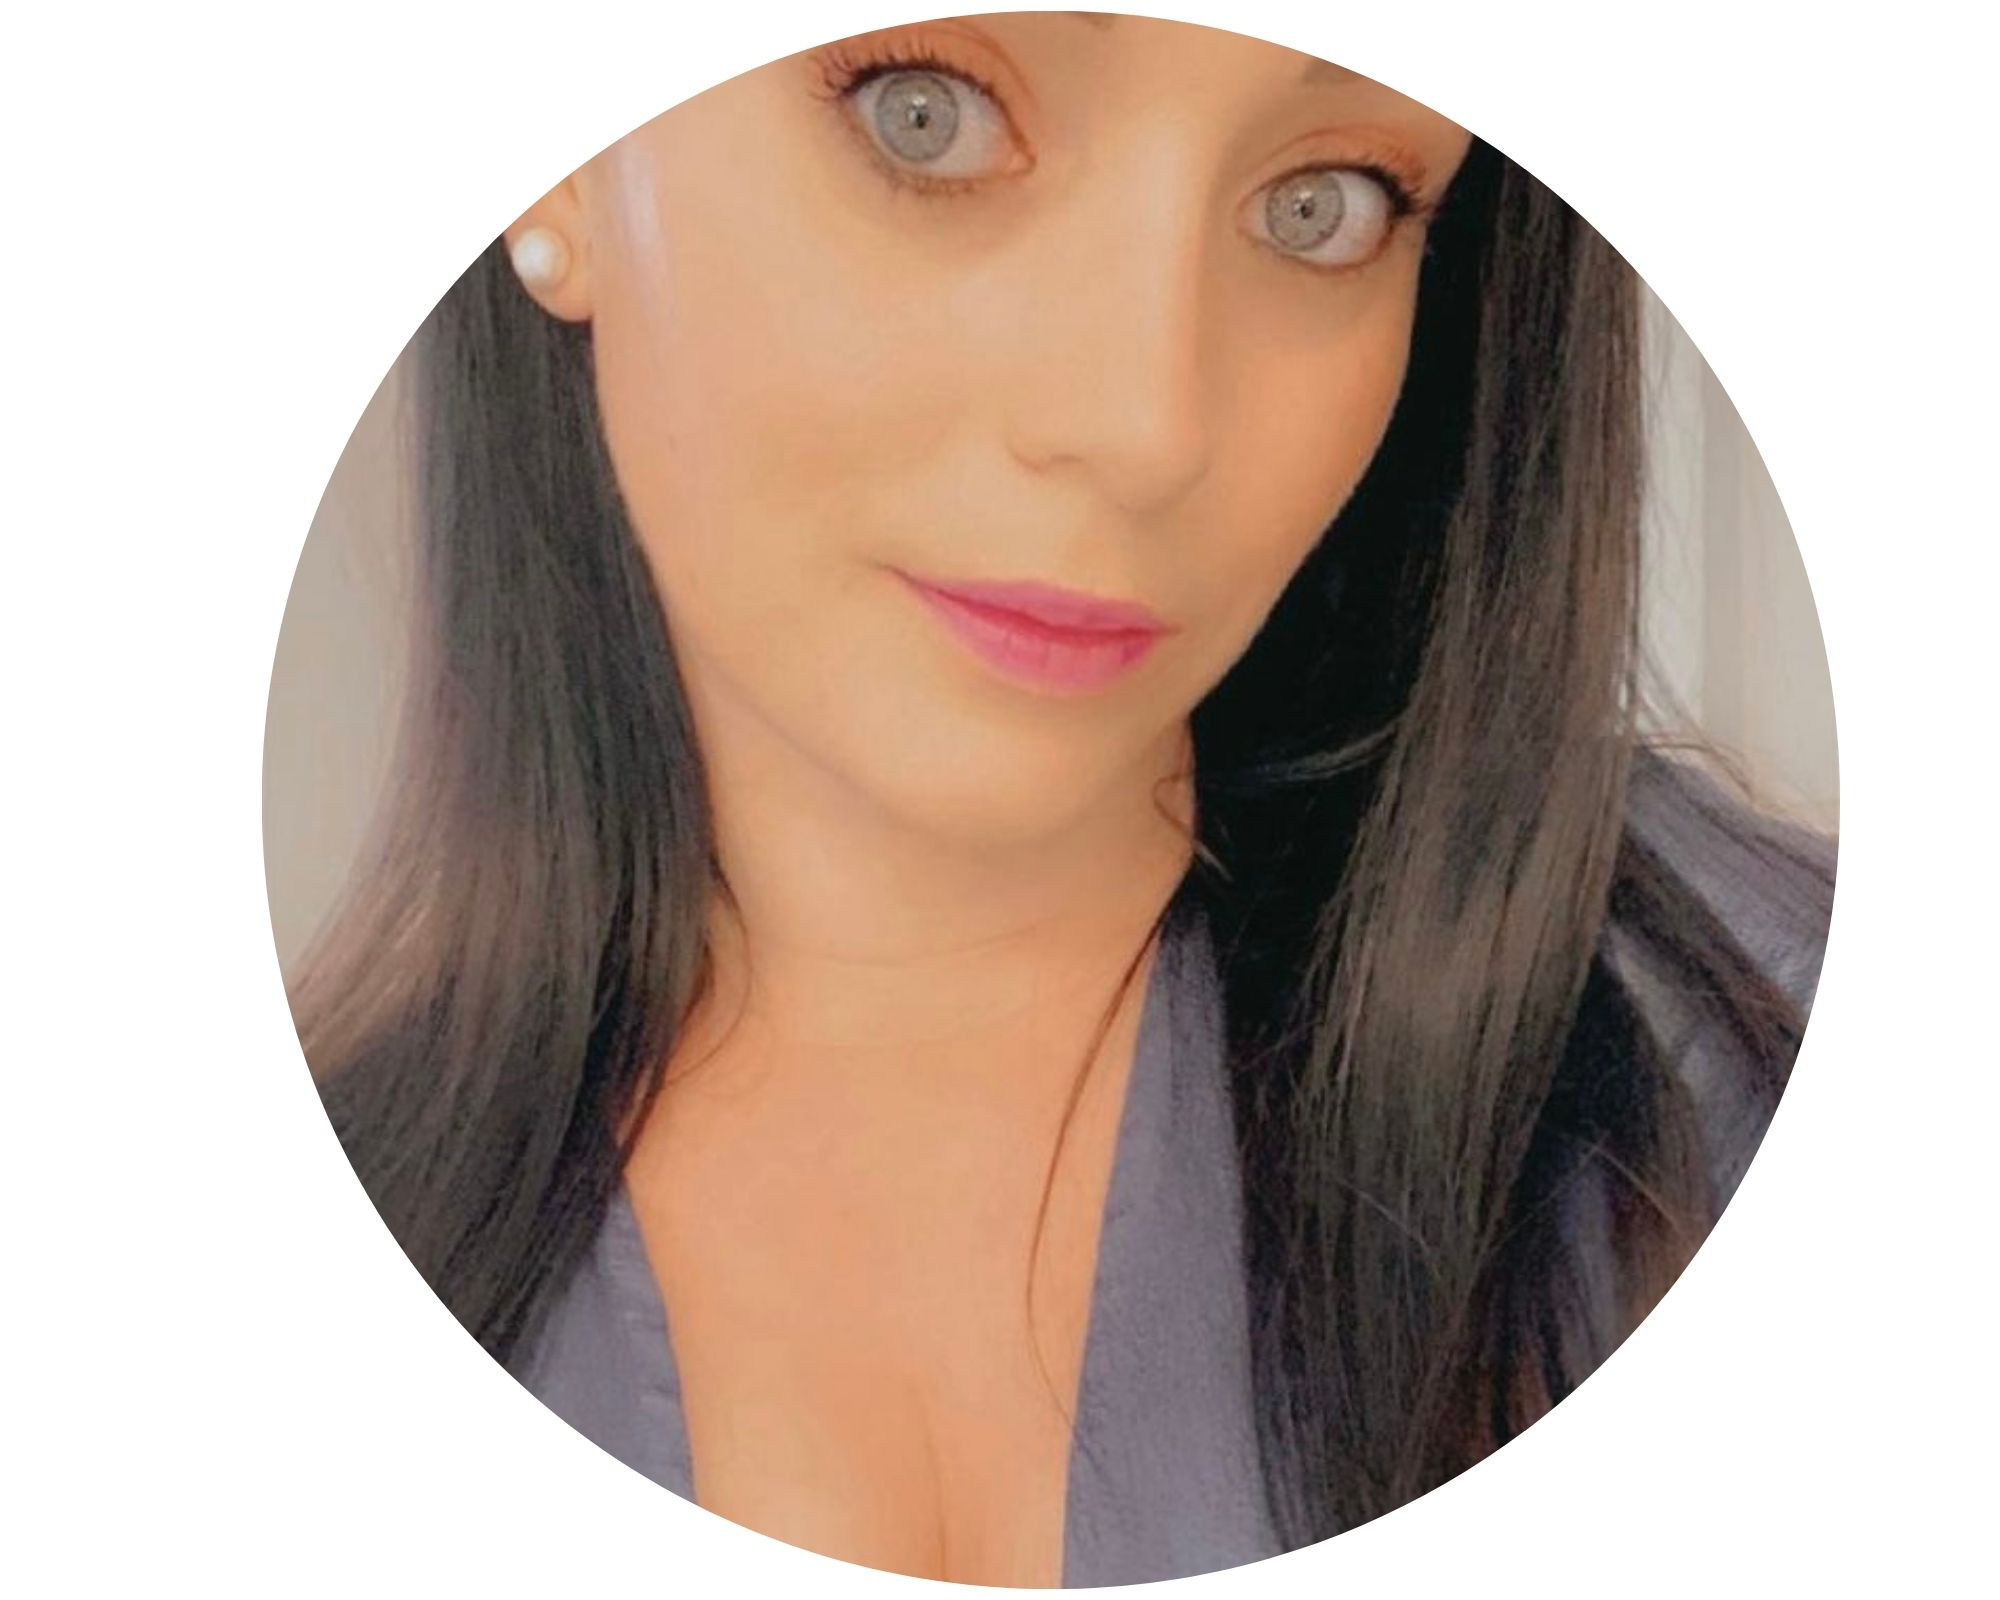
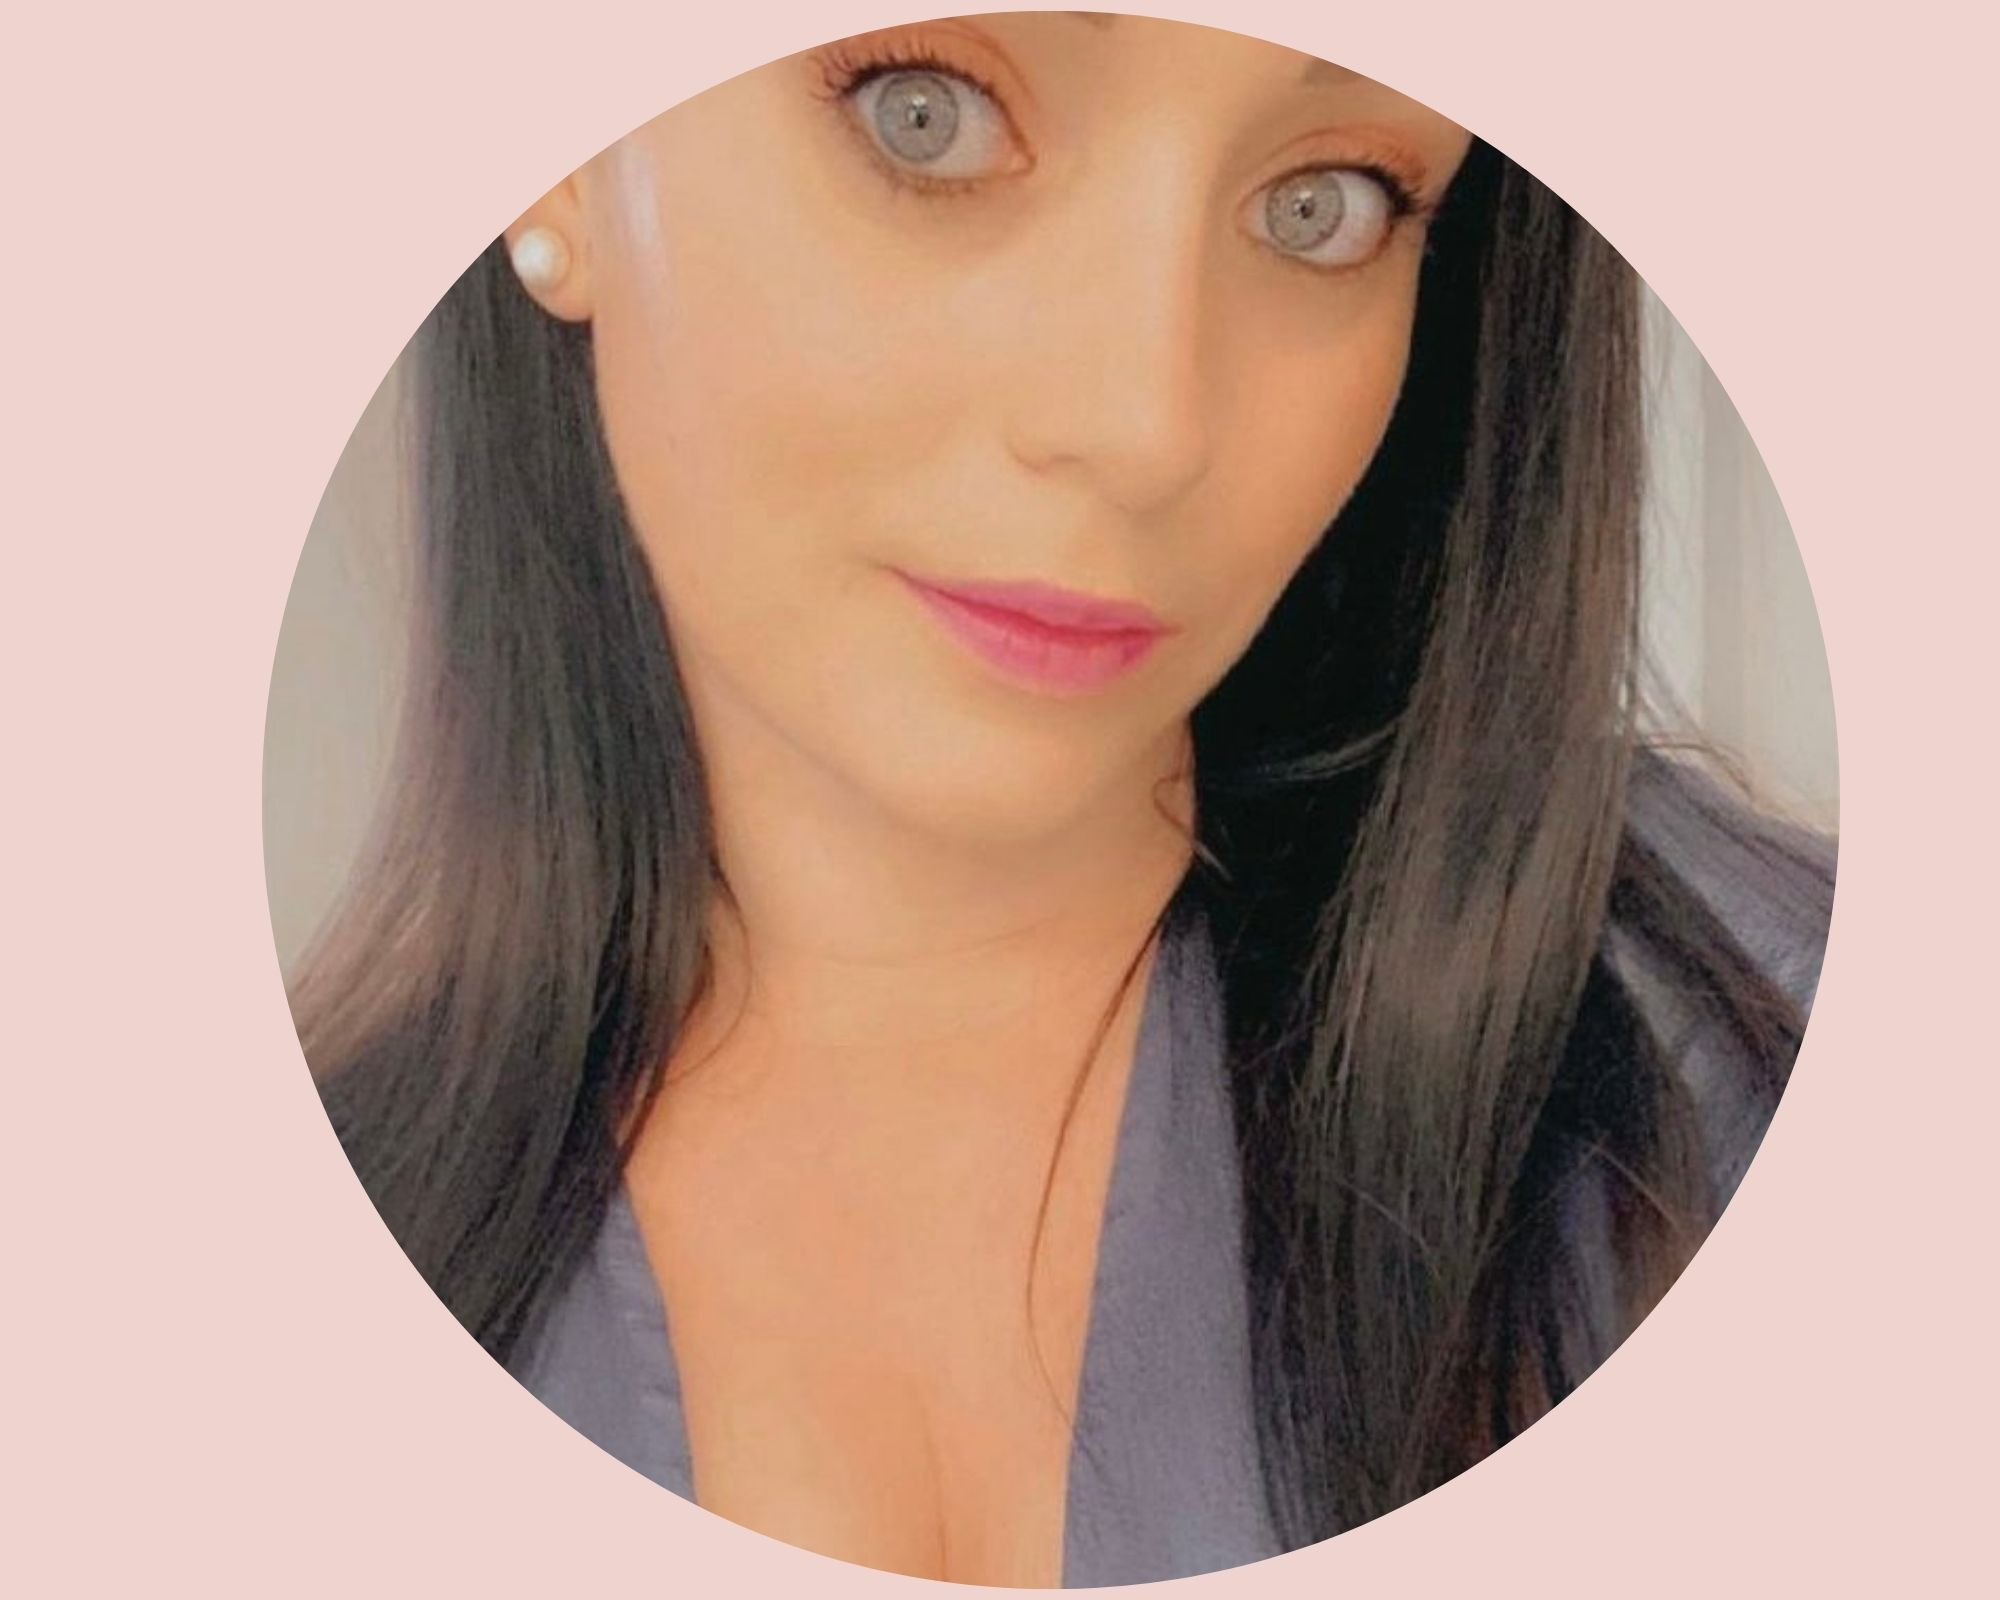
update header

diff --git a/SiteJu/wwwroot/css/design.css b/SiteJu/wwwroot/css/design.css
@@ -19,8 +19,16 @@
 body {
     font-family: "Montserrat-ExtraLight";
 }
-/* PAGE ACCUEIL*/
-.title-section {
+
+.salon {
+    background-image: url('../assets/img/banniere.jpg');
+    background-repeat: no-repeat;
+    background-size: cover;
+    padding: 18% !important;
+}
+
+ /* PAGE ACCUEIL*/
+    .title-section {
   padding-bottom: 3%;
   margin-top: 3%;
     background-size: 50% auto;
@@ -44,6 +52,21 @@ body {
     /*    background-color: #ffe4e1;*/
 }
 
+.logo {
+    font-family: 'Cinzel', serif;
+    font-size: 3.5rem;
+}
+
+.sous_logo {
+    font-size: 20px;
+    font-family: 'Cinzel';
+    color: grey;
+}
+.diamond {
+    width: 60px;
+    height: 30px;
+}
+
 .cadre {
     margin-right: 20%;
     margin-left: 20%;
@@ -52,17 +75,6 @@ body {
     background-color: rgba(255, 255, 255, 0.8);*/
     color: white;
 
-}
-.logo {
-    font-family: 'Cinzel', serif;
-    text-shadow: 0px 3px 8px rgba(255, 99, 185, 1);
-    font-size: 3.5rem;
-}
-
-.sous_logo {
-    font-size: 20px;
-    font-family: 'Cinzel';
-    color: grey;
 }
 
 /* Menu */
@@ -95,27 +107,21 @@ body {
     font-family: 'Cinzel', serif;
 }*/
 
+/* Section 1 */
 .profil {
     padding-bottom: 5%;
-}
-
-.salon {
+    padding-top: 5%;
     background-color: #efd3cf;
-}
-
-.diamond {
-    width: 30px;
-    height: 30px;
-}
-
-.diamond-text {
-    display: flex;
 }
 
 .photo {
 
 max-height: 400px;
 
+}
+
+.padding-right {
+    padding-right:2%;
 }
 
 .taille {
@@ -139,8 +145,8 @@ max-height: 400px;
 }
 
 .padding-presta {
-    padding-right: 17%;
-    padding-left: 17%;
+    padding-right: 22%;
+    padding-left: 22%;
     padding-top: 2%;
 }
 
